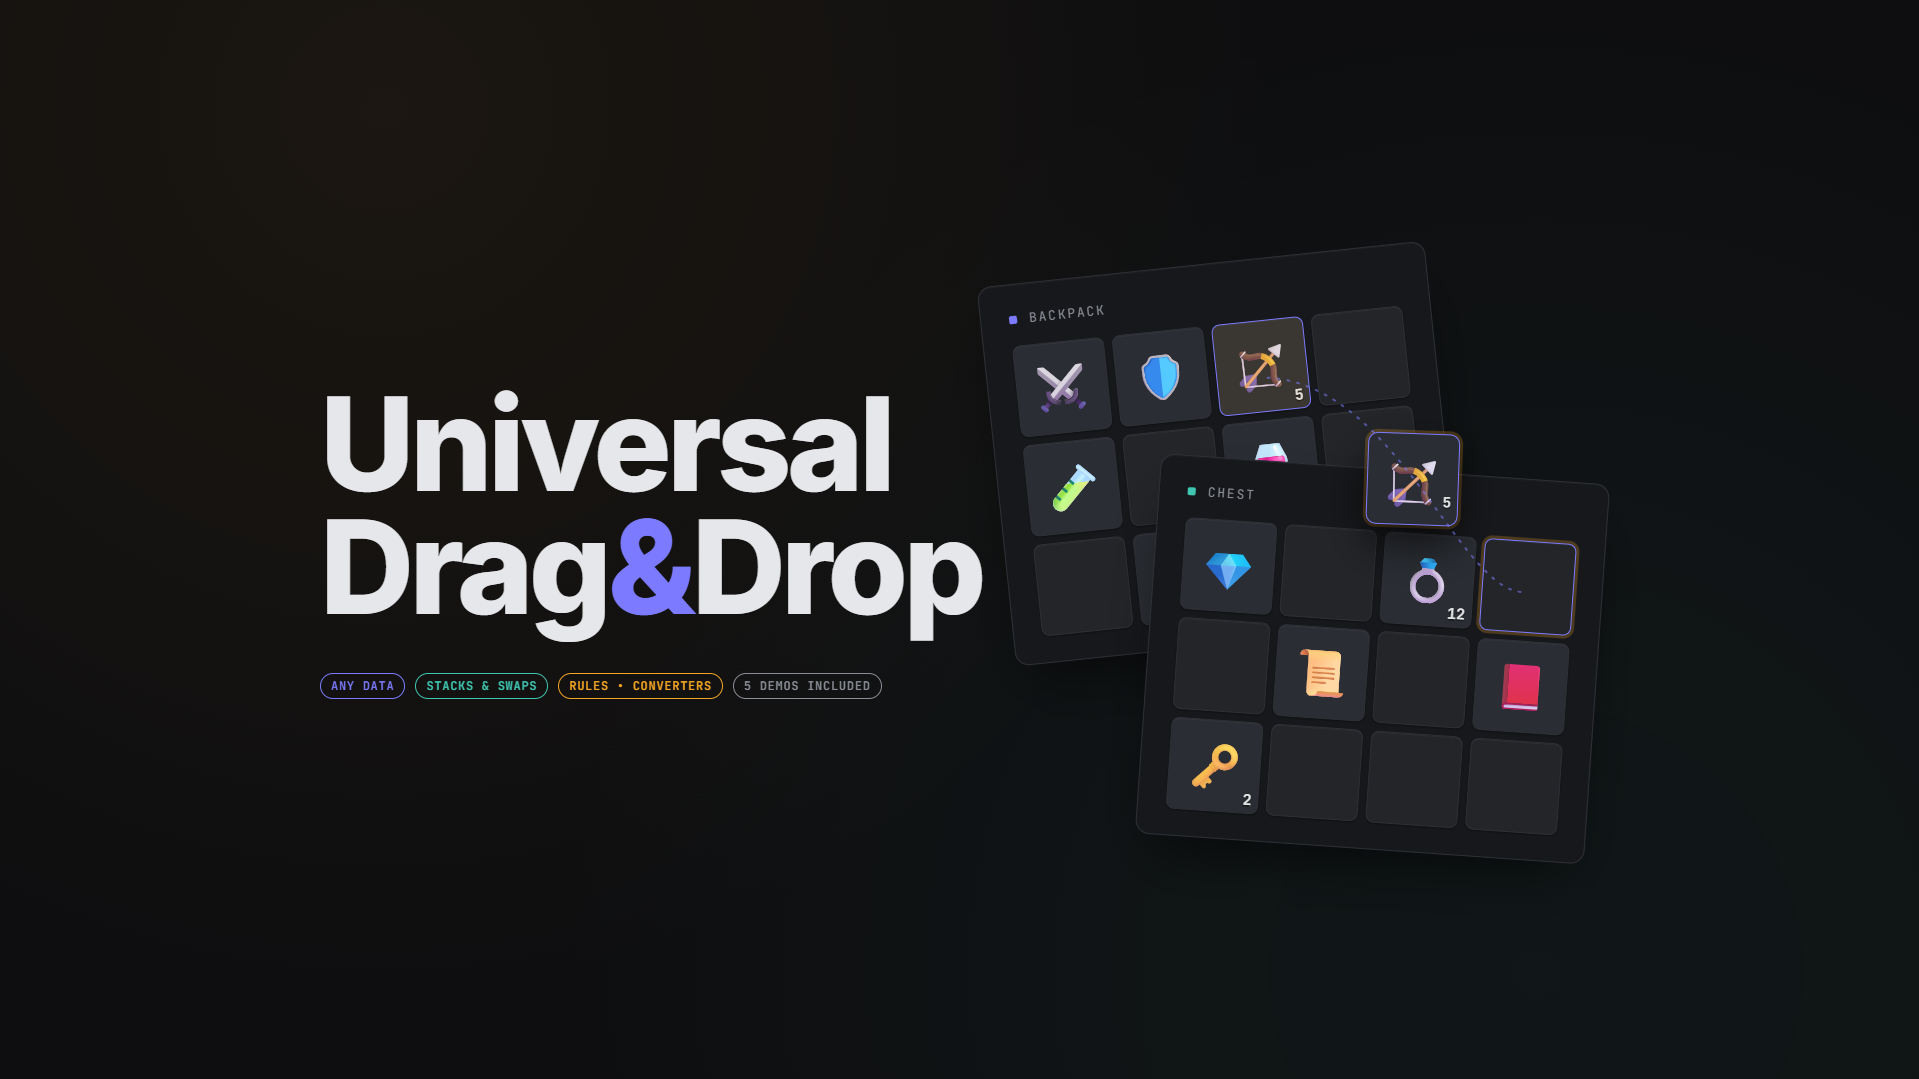
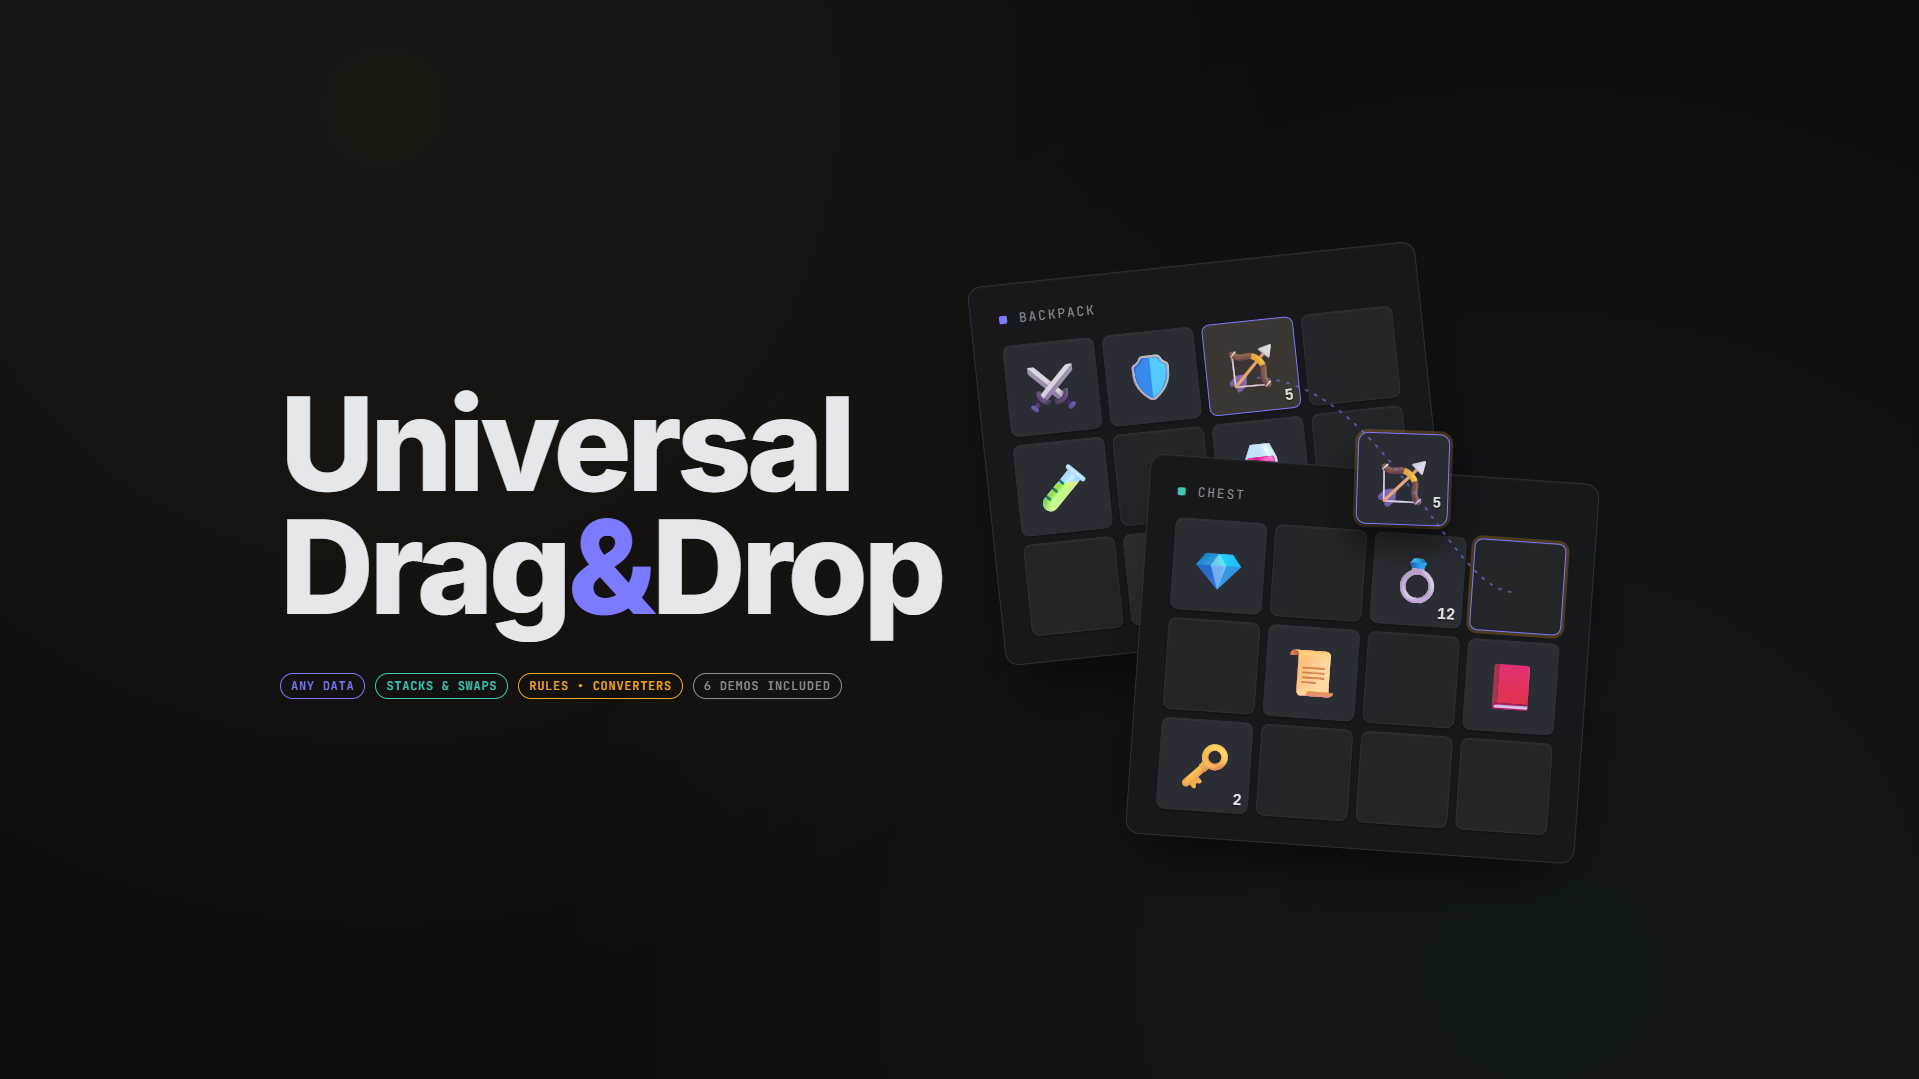
Еще обновления пнг

diff --git a/.extraDocs/Slides/UniversalDragAndDrop/src/slides-a.jsx b/.extraDocs/Slides/UniversalDragAndDrop/src/slides-a.jsx
@@ -22,14 +22,10 @@ function Slide1() {
     <SlideFrame className="bg-grid" style={{padding:0, overflow:'hidden'}}>
       
       {/* Left big text panel */}
-      <div style={{position:'absolute', left:170, top:0, bottom:0, width:900, display:'flex', flexDirection:'column', justifyContent:'center', zIndex:3}}>
+      <div style={{position:'absolute', left:280, top:0, bottom:0, width:900, display:'flex', flexDirection:'column', justifyContent:'center', zIndex:3}}>
         <h1 style={{fontSize:130, fontWeight:800, margin:0, letterSpacing:'-0.035em', lineHeight:0.95, textWrap:'balance'}}>
           Universal<br/>Drag<span style={{color:'var(--accent)'}}>&</span>Drop
         </h1>
-        <div style={{marginTop:36, fontSize:30, color:'var(--muted)', lineHeight:1.35, maxWidth:720}}>
-          Inventory & drag‑and‑drop for
-          <span style={{color:'var(--text)'}}> your existing data model</span>.
-        </div>
         <div style={{marginTop:44, display:'flex', gap:10, flexWrap:'wrap'}}>
           <Tag color="var(--accent)">Any data</Tag>
           <Tag color="var(--accent-2)">Stacks & swaps</Tag>
@@ -39,7 +35,7 @@ function Slide1() {
       </div>
 
       {/* Right: two inventories with drag-line */}
-      <div style={{position:'absolute', right:-40, top:120, bottom:120, width:1020, display:'flex', alignItems:'center', justifyContent:'center'}}>
+      <div style={{position:'absolute', right:70, top:120, bottom:120, width:1020, display:'flex', alignItems:'center', justifyContent:'center'}}>
         <div style={{position:'relative', transform:'rotate(-6deg)', transformOrigin:'center'}}>
           <Panel title="Backpack" style={{marginRight:240, marginBottom:200}}>
             <Grid cols={4} rows={3} cells={leftGrid} size={92} dragFrom={2}/>
